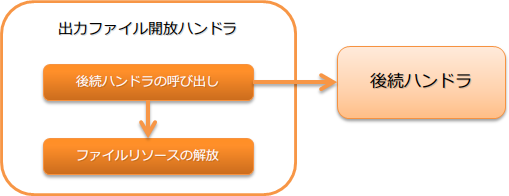
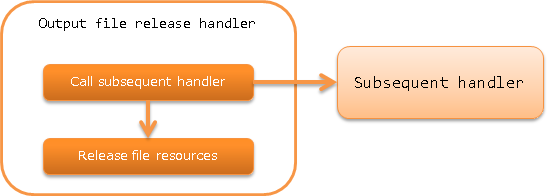
出力ファイル開放ハンドラページを英語化

diff --git a/en/application_framework/application_framework/handlers/common/file_record_writer_dispose_handler.rst b/en/application_framework/application_framework/handlers/common/file_record_writer_dispose_handler.rst
@@ -1,45 +1,44 @@
 .. _file_record_writer_dispose_handler:
 
-出力ファイル開放ハンドラ
+Output File Release Handler
 ========================================
 
 .. contents:: 目次
   :depth: 3
   :local:
 
-業務アクションやハンドラで開いた出力ファイルを閉じる(リソースの解放)ハンドラ。
+This handler closes the output file opened by business action or handler (release resources).
 
 .. important::
 
-  このハンドラで解放対象となるのは、 :java:extdoc:`FileRecordWriterHolder <nablarch.common.io.FileRecordWriterHolder>` を使用して開いた出力ファイルとなる。
-  それ以外のAPI(例えば、 `java.io` パッケージ)を使って開いたリソースについては、個別にクローズ処理を行うこと。
+  The release target for this handler is the output file opened using :java:extdoc:`FileRecordWriterHolder <nablarch.common.io.FileRecordWriterHolder>`.
+  Close the resources opened using other APIs (for example: `java.io` package) individually.
 
-処理の流れは以下のとおり。
+The process flow is as follows.
 
 .. image:: ../images/FileRecordWriterDisposeHandler/flow.png
 
-ハンドラクラス名
+Handler class name
 --------------------------------------------------
 * :java:extdoc:`nablarch.common.io.FileRecordWriterDisposeHandler`
 
-モジュール一覧
+Module list
 --------------------------------------------------
 .. code-block:: xml
 
-  <!-- 汎用データフォーマット -->
+  <!-- General data format -->
   <dependency>
     <groupId>com.nablarch.framework</groupId>
     <artifactId>nablarch-core-dataformat</artifactId>
   </dependency>
 
-制約
+Constraints
 ------------------------------
-なし。
+None
 
-ハンドラキューへの設定について
+Configuration to the handler queue
 --------------------------------------------------
-このハンドラは、ハンドラキュー上に設定するだけで、後続のハンドラや業務アクションで開いた出力ファイルを自動的にクローズする。
-このため、ファイル出力を行う全てのハンドラより手前に設定する必要がある。
-
+This handler automatically closes the output file opened by the subsequent handlers and business actions just by configuring it on the handler queue.
+Therefore, this handler must be configured before all the handlers that perform file output.
 
 
